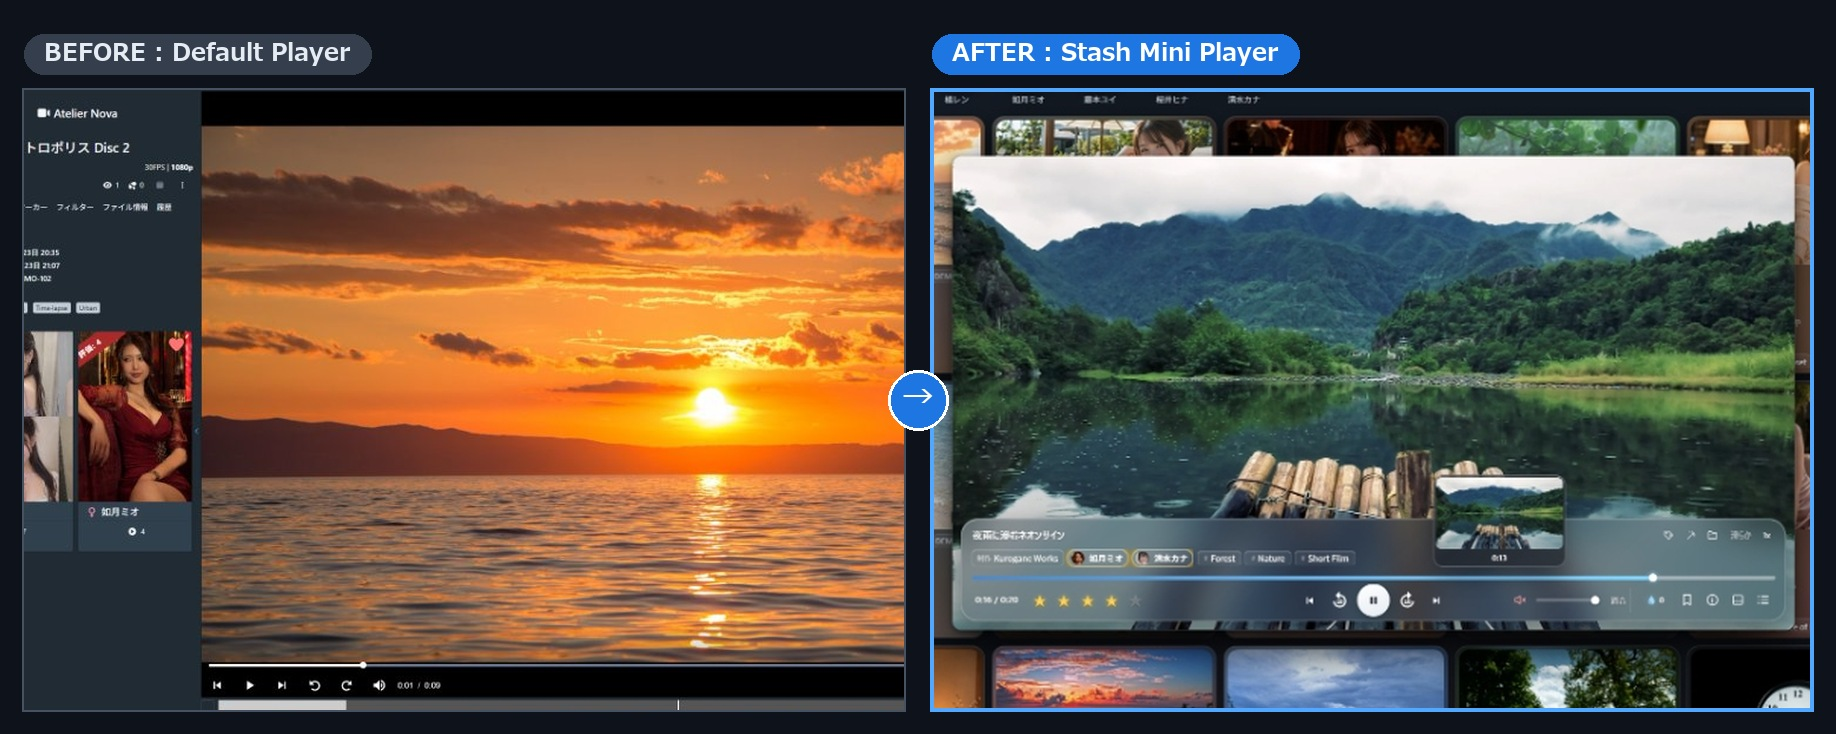
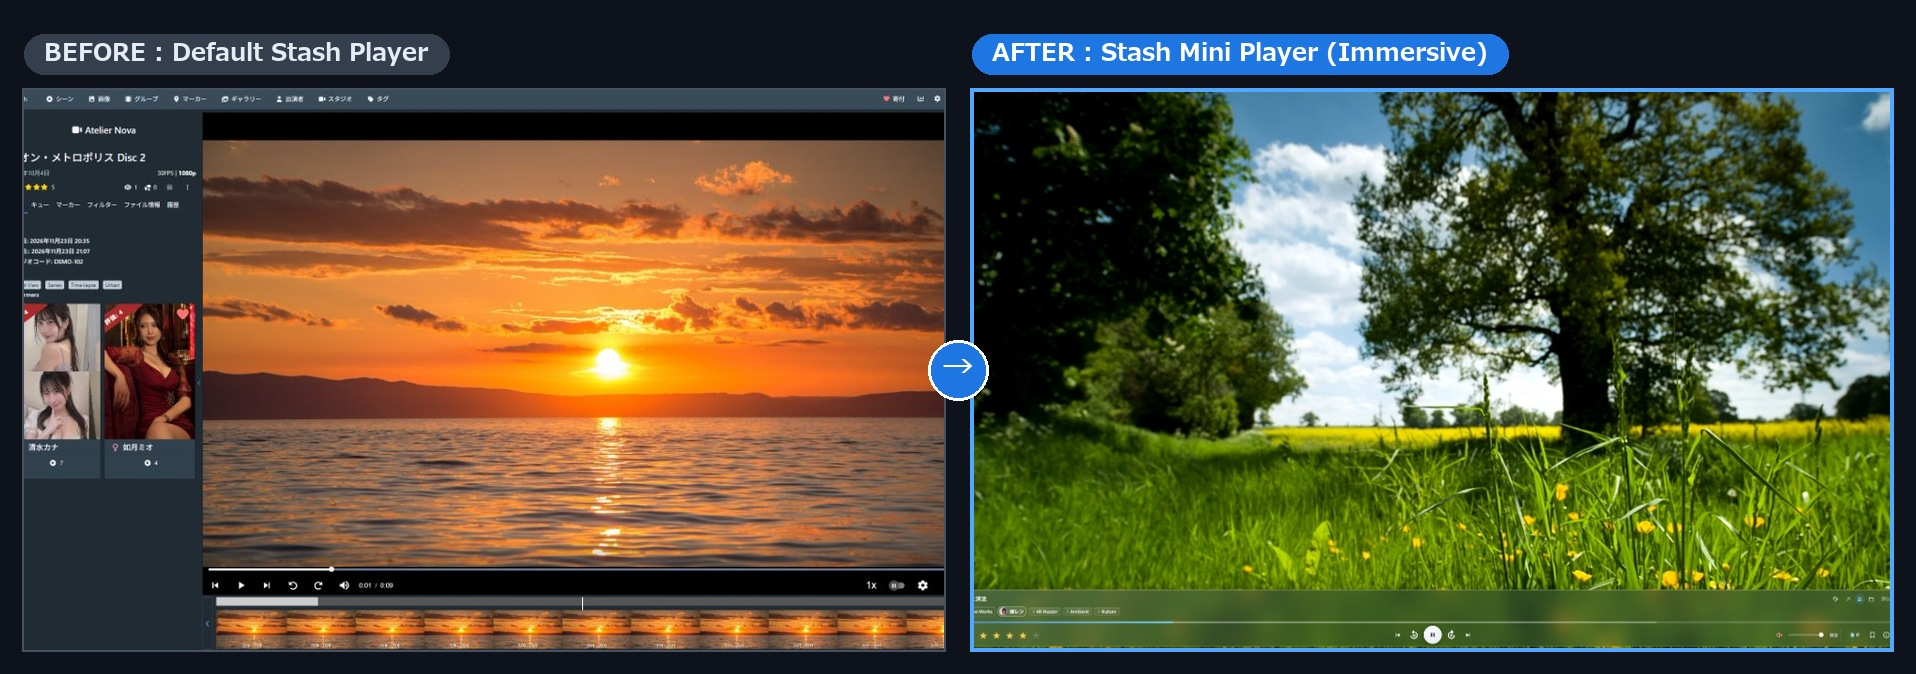
Remove performer rarity card and update immersive player comparison

diff --git a/README_JA.md b/README_JA.md
@@ -20,17 +20,17 @@
 | :---: | :---: |
 | ![全体一覧](./docs/images/01_overview.jpg) | ![ミニプレイヤー](./docs/images/02_mini_player.jpg) |
 
-| 強化版 女優パネル（Free版） | 出演者レアリティカード＋ミニプレイヤー |
+| 強化版 女優パネル（Free版） | 最大9画面同時再生 Grid Player（Free版） |
 | :---: | :---: |
-| ![女優パネル](./docs/images/04_performer_drawer.jpg) | ![出演者カード](./docs/images/06_performer_card.jpg) |
+| ![女優パネル](./docs/images/04_performer_drawer.jpg) | ![グリッドプレイヤー](./docs/images/07_grid_player.jpg) |
 
-| 専用漫画ビューア（Premium版） | 統合設定画面（5言語・10テーマ・16項目カスタム） |
+| 専用漫画ビューア（Premium版） | Library Hub 整備ハブ（Premium版） |
 | :---: | :---: |
-| ![漫画ビューア](./docs/images/05_manga_viewer.jpg) | ![設定画面](./docs/images/03_settings.jpg) |
+| ![漫画ビューア](./docs/images/05_manga_viewer.jpg) | ![整備ハブ](./docs/images/08_library_hub.jpg) |
 
-| 最大9画面同時再生 Grid Player（Free版） | Library Hub 整備ハブ（Premium版） |
-| :---: | :---: |
-| ![グリッドプレイヤー](./docs/images/07_grid_player.jpg) | ![整備ハブ](./docs/images/08_library_hub.jpg) |
+| 統合設定画面（5言語・10テーマ・16項目カスタム） |
+| :---: |
+| ![設定画面](./docs/images/03_settings.jpg) |
 
 > **再生体験の比較**：標準のページ遷移 vs Stash Mini Player（その場即再生）  
 > ![Before / After 再生比較](./docs/images/00_compare_player_before_after.jpg)

diff --git a/README.md b/README.md
@@ -20,17 +20,17 @@ No external Python packages (`pip`) or extra servers required — just copy the 
 | :---: | :---: |
 | ![Overview](./docs/images/01_overview.jpg) | ![Mini Player](./docs/images/02_mini_player.jpg) |
 
-| Performer Drawer & Face Strip (Free) | Performer Rarity Card + Player |
+| Performer Drawer & Face Strip (Free) | 9-Screen Grid Player (Free) |
 | :---: | :---: |
-| ![Performer Drawer](./docs/images/04_performer_drawer.jpg) | ![Performer Card](./docs/images/06_performer_card.jpg) |
+| ![Performer Drawer](./docs/images/04_performer_drawer.jpg) | ![Grid Player](./docs/images/07_grid_player.jpg) |
 
-| Manga Viewer (Premium) | Unified Settings (5 Languages & 10 Themes) |
+| Manga Viewer (Premium) | Library Hub — Batch Organizer (Premium) |
 | :---: | :---: |
-| ![Manga Viewer](./docs/images/05_manga_viewer.jpg) | ![Unified Settings](./docs/images/03_settings.jpg) |
+| ![Manga Viewer](./docs/images/05_manga_viewer.jpg) | ![Library Hub](./docs/images/08_library_hub.jpg) |
 
-| 9-Screen Grid Player (Free) | Library Hub — Batch Organizer (Premium) |
-| :---: | :---: |
-| ![Grid Player](./docs/images/07_grid_player.jpg) | ![Library Hub](./docs/images/08_library_hub.jpg) |
+| Unified Settings (5 Languages & 10 Themes) |
+| :---: |
+| ![Unified Settings](./docs/images/03_settings.jpg) |
 
 > **Instant Inline Playback**: Compare Default Stash vs. Stash Mini Player  
 > ![Before and After Player](./docs/images/00_compare_player_before_after.jpg)
